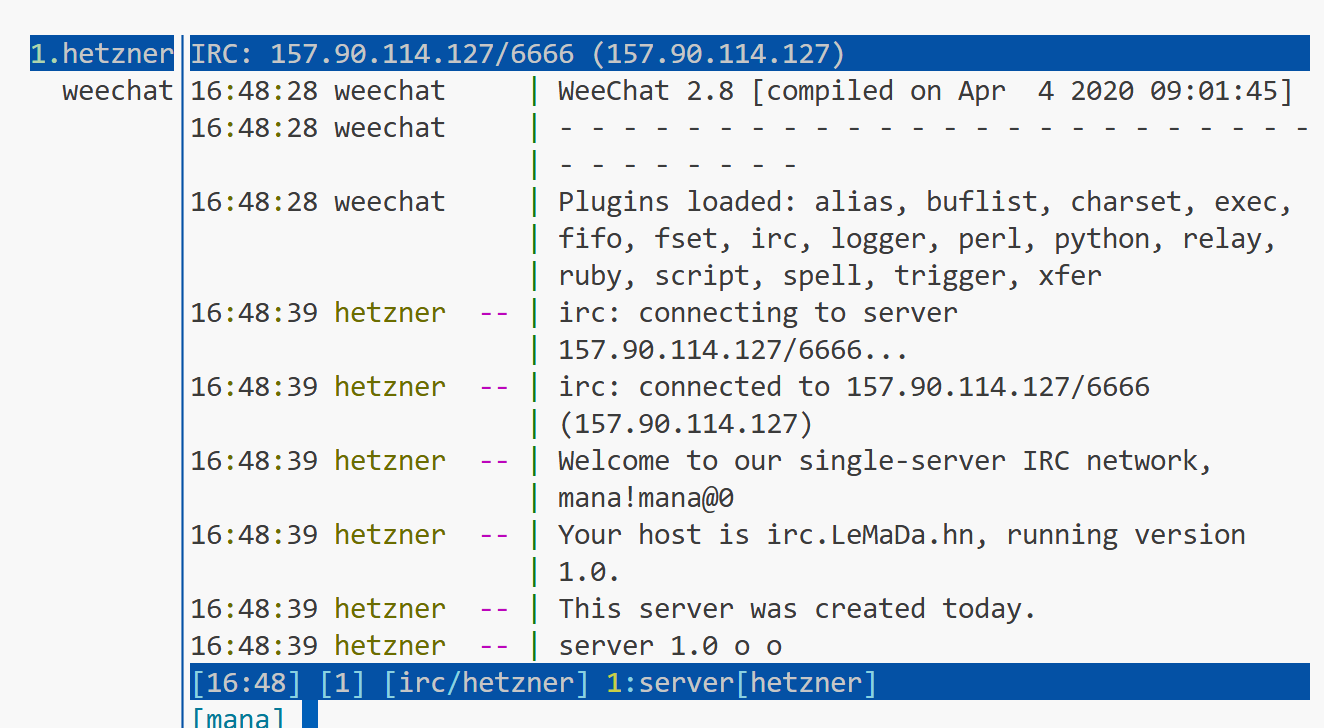
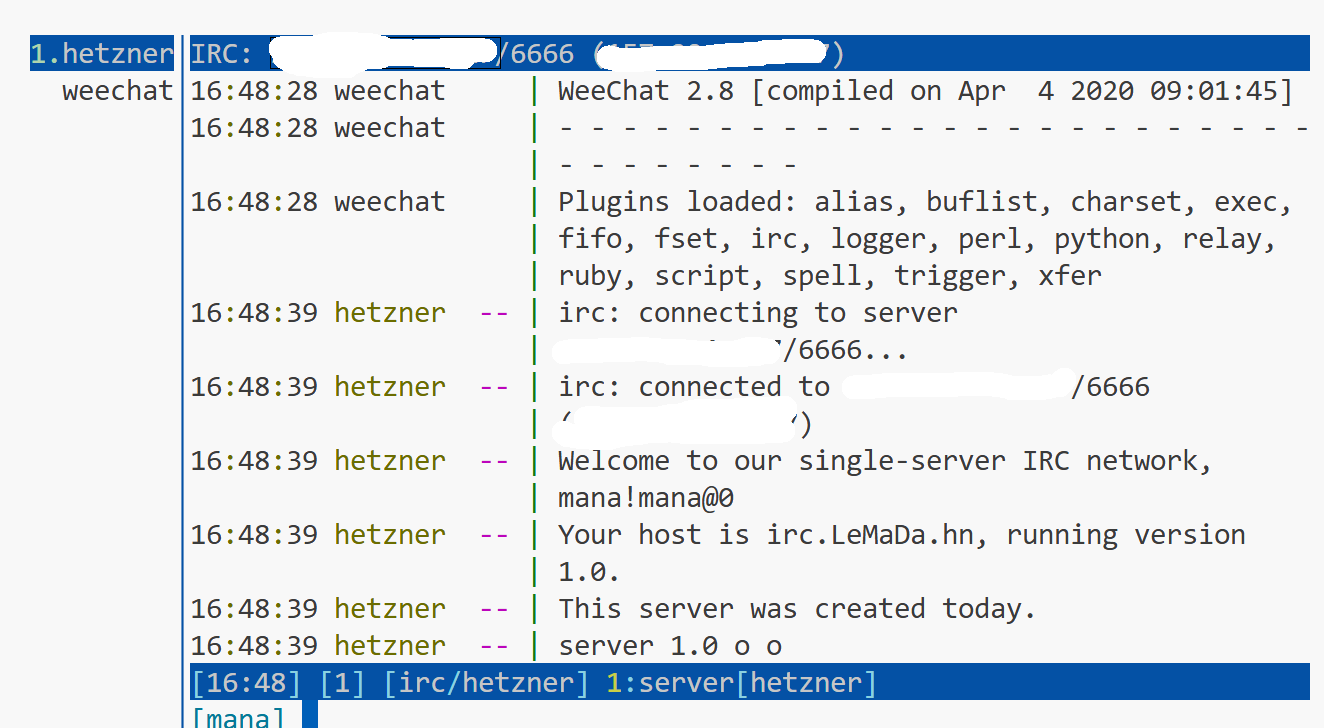
redacted

diff --git a/readme.html b/readme.html
@@ -243,7 +243,7 @@ cd 42_irc</code></pre>
         <strong>💡 Customization:</strong><br>
         <ul>
           <li><strong>Port</strong>: Edit <code>constexpr int PORT = 6666;</code> in <code>main.cpp</code></li>
-          <li><strong>Password</strong>: Edit <code>constexpr auto SERVER_PASSWORD = "abc";</code> in <code>main.cpp</code></li>
+          <li><strong>Password</strong>: Edit <code>constexpr auto SERVER_PASSWORD = "XXXXXXX";</code> in <code>main.cpp</code></li>
           <li><strong>Server name</strong>: Edit <code>constexpr auto SERVER_NAME = ...</code> in <code>main.cpp</code></li>
         </ul>
       </div>
@@ -274,7 +274,7 @@ cd 42_irc</code></pre>
         </li>
         <li><strong>Add the IRC server</strong><br>
           In WeeChat, type:<br>
-          <pre><code>/server add 42irc 157.90.114.127/6666 -password=abc
+          <pre><code>/server add 42irc *ask project team*/6666 -password=*easy as ...*
 /connect 42irc</code></pre>
         </li>
 		<li>upon successful connection:	</li>

diff --git a/readme.md b/readme.md
@@ -96,7 +96,7 @@ The server prints status and debug info to the console:
 3. **Add the IRC server**
    In WeeChat, type:
    ```
-   /server add 42irc 157.90.114.127/6666 -password=abc
+   /server add 42irc *ask project team*/6666 -password=*easy as ...*
    /connect 42irc
    ```
    
